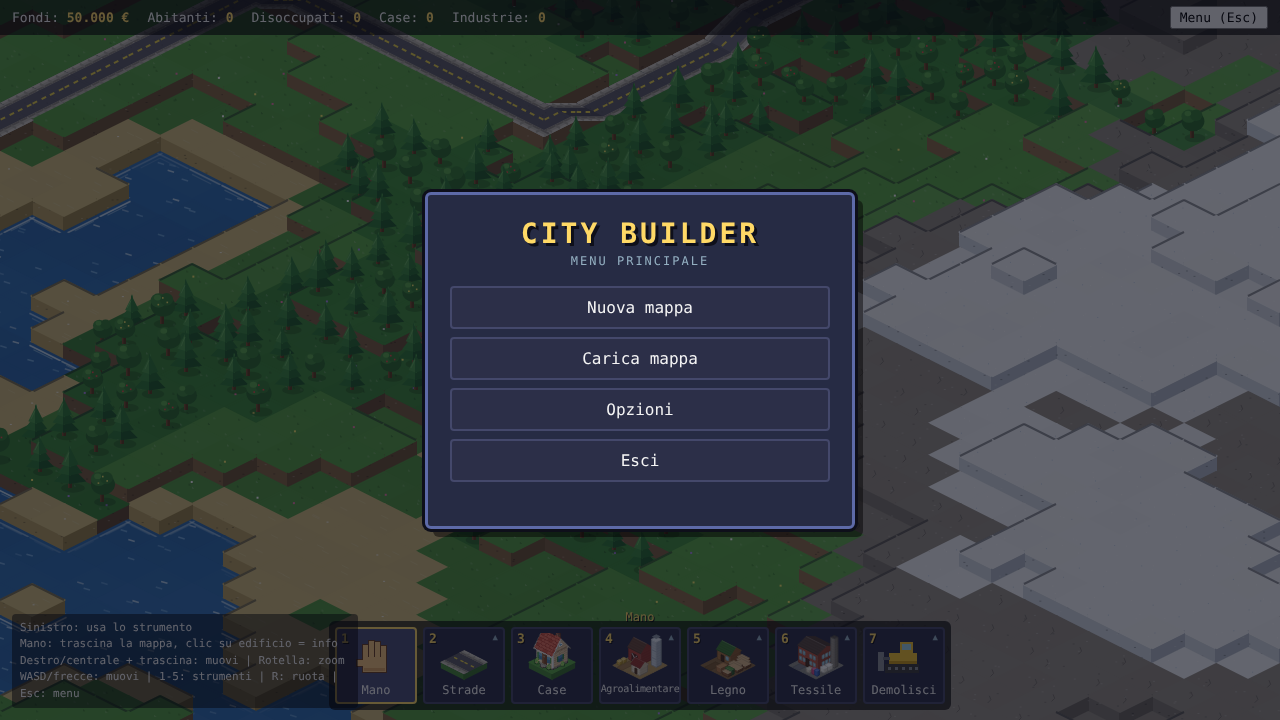
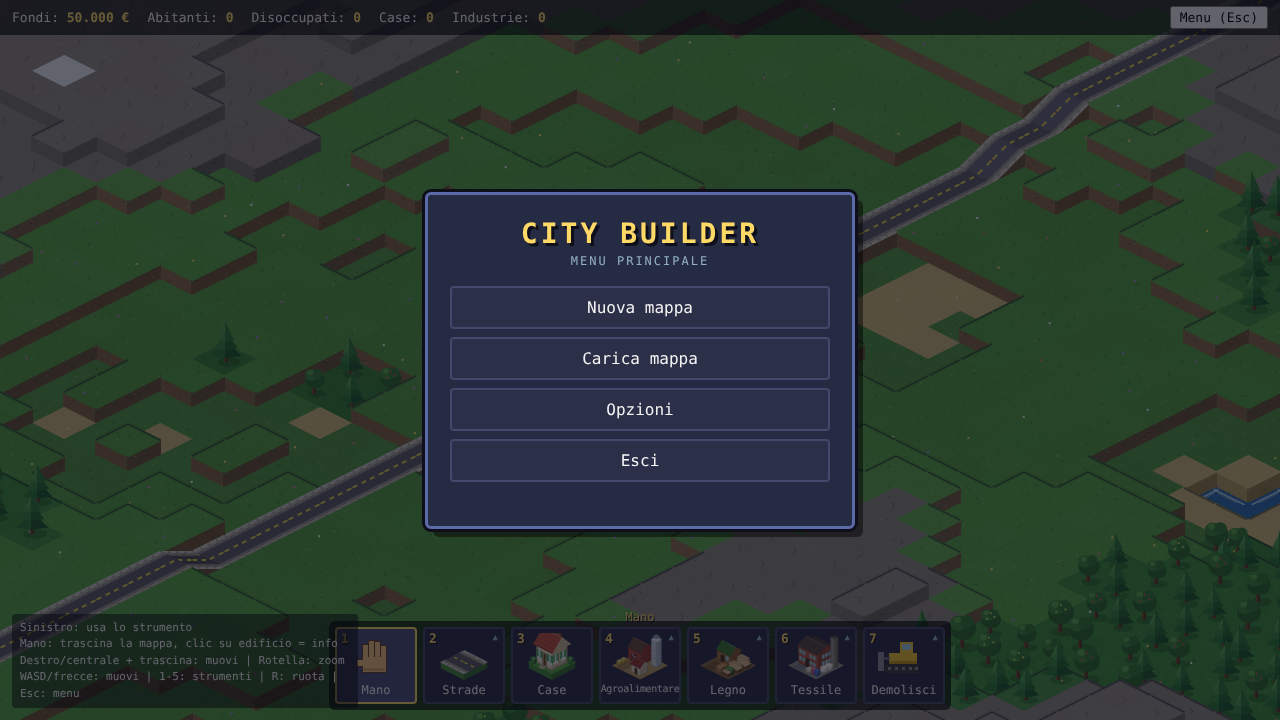
Case e veicoli disegnati nel codice nello stesso stile degli altri edifici
Claude-Session: https://claude.ai/code/session_01EPii4HtPudbMHHXMoA5j75

diff --git a/js/sprite-data.js b/js/sprite-data.js
@@ -1,7 +1,3 @@
 // ---------- Sprite in pixel art (file generato da tools/sprites/build.js: non modificare a mano) ----------
 const SPRITE_DATA = {
-  house: { cell: [64,84], anchor: [32,52], cols: 4, rows: 3,
[1 lines of base64/hex data omitted]
-  vehicles: { cell: [40,32], anchor: [20,22], cols: 4, rows: 3,
[1 lines of base64/hex data omitted]
 };

diff --git a/js/render.js b/js/render.js
@@ -19,10 +19,11 @@ const GROUND = { farm: '#b89a5e', warehouse: '#9a9a92', factory: '#8f8f88', supe
   forestry: '#8a6a40', sawmill: '#a08a64', furnitureFactory: '#8f8f88', furnitureStore: '#9a9a92',
   goodsWarehouse: '#9a9a92', textileMill: '#8f8f88', clothingFactory: '#8f8f88', clothingStore: '#9a9a92' };   // terreno sotto gli edifici grandi
 
+// colori delle case: muri (l = lato sinistro, r = destro), tetto, falda dietro, persiane
 const HOUSE_STYLES = [
-  { l: '#d9c3a0', r: '#b39d7c', roof: '#b5473a', lip: '#8f372d' },
-  { l: '#e6d9c2', r: '#c0b399', roof: '#4a6fa5', lip: '#385782' },
-  { l: '#c9d6b8', r: '#a4b394', roof: '#8a5a3a', lip: '#6b432a' },
+  { l: '#efe0c2', r: '#cdbb9a', roof: '#c4533f', back: '#8f372d', shutter: '#4f9f57' },
+  { l: '#f4f4f0', r: '#d2d4d6', roof: '#4f74b0', back: '#385782', shutter: '#5f718c' },
+  { l: '#d6e3c4', r: '#b2c2a0', roof: '#9a6540', back: '#6b432a', shutter: '#bd8640' },
 ];
 
 function poly(c, pts, color) {
@@ -411,33 +412,60 @@ function drawRoundabout(c, x, y, P) {
 // ---------- Edifici ----------
 // La casa è uno sprite in pixel art (assets/sprites/house.png: colonne = rotazioni, righe = colori).
 // Finché l'immagine non è caricata si usa il disegno semplice qui sotto.
-function drawHouse(c, sx, sy, variant, rot) {
-  if (drawSprite(c, 'house', (rot || 0) & 3, variant || 0, sx, sy)) return;
-  const s = HOUSE_STYLES[variant % HOUSE_STYLES.length];
-  const hw = 12, hh = 6, h = 14;
-  const cx = sx, cy = sy + TH / 2;
-  const L = [cx - hw, cy], B = [cx, cy + hh], R = [cx + hw, cy], Tp = [cx, cy - hh];
-  const up = (p, d) => [p[0], p[1] - d];
-
-  poly(c, [L, B, up(B, h), up(L, h)], s.l);
-  poly(c, [B, R, up(R, h), up(B, h)], s.r);
-  poly(c, [up(Tp, h), up(R, h), up(B, h), up(L, h)], s.roof);
-  poly(c, [up(L, h), up(B, h), up(B, h - 2), up(L, h - 2)], s.lip);
-  poly(c, [up(B, h), up(R, h), up(R, h - 2), up(B, h - 2)], s.lip);
-
-  c.fillStyle = '#2b3a4d';
-  for (const t of [0.3, 0.7]) {
-    c.fillRect(Math.round(L[0] + (B[0] - L[0]) * t) - 1, Math.round(L[1] + (B[1] - L[1]) * t - h * 0.5) - 1, 2, 3);
-    c.fillRect(Math.round(B[0] + (R[0] - B[0]) * t) - 1, Math.round(B[1] + (R[1] - B[1]) * t - h * 0.5) - 1, 2, 3);
-  }
-  // porta: sul lato sinistro (rot 0) o destro (rot 3); con rot 1 e 2 è sul retro e non si vede
+// Casa 1x1, disegnata come gli altri edifici: muri, tetto a due falde con il comignolo,
+// porta (sul lato che dice la rotazione: 0 = +v, 1 = -u, 2 = -v, 3 = +u), finestre con persiane,
+// vialetto e cespugli. Due tipi (villetta e casa a due piani) e tre colori.
+function drawHouse(c, x, y, base, variant, rot) {
+  const s = HOUSE_STYLES[(variant || 0) % HOUSE_STYLES.length];
   const r = (rot || 0) & 3;
-  if (r === 0 || r === 3) {
-    const [a, b] = r === 0 ? [L, B] : [B, R];
-    const m = [(a[0] + b[0]) / 2, (a[1] + b[1]) / 2];
-    poly(c, [[m[0] - 1.5, m[1] - 0.75 * (r === 0 ? 1 : -1)], [m[0] + 1.5, m[1] + 0.75 * (r === 0 ? 1 : -1)],
-      [m[0] + 1.5, m[1] + 0.75 * (r === 0 ? 1 : -1) - 6], [m[0] - 1.5, m[1] - 0.75 * (r === 0 ? 1 : -1) - 6]], '#5a3a22');
+  const tall = hash(x, y, 42) > 0.6;                      // casa a due piani
+  const P = (u, v, z) => iso(x, y, u, v, base + z / STEP);
+  const A = 0.17, B = 0.83, H = tall ? 21 : 13;
+  const doorFace = ['+v', '-u', '-v', '+u'][r];
+  // quadrilatero su un lato del muro: face '+v' (v = B) o '+u' (u = B), da a0 a a1, alto da z0 a z1
+  const onFace = (face, a0, a1, z0, z1, color) => {
+    const pt = (a, z) => face === '+v' ? P(a, B, z) : P(B, a, z);
+    const q = [pt(a0, z0), pt(a1, z0), pt(a1, z1), pt(a0, z1)];
+    poly(c, q, color);
+    return q;
+  };
+  const windowOn = (face, a, z0) => {
+    const q = onFace(face, a - 0.065, a + 0.065, z0, z0 + 5, '#9fd3e8');
+    if (!DETAIL) return;
+    aline(c, [(q[0][0] + q[1][0]) / 2, (q[0][1] + q[1][1]) / 2], [(q[3][0] + q[2][0]) / 2, (q[3][1] + q[2][1]) / 2], '#ffffff', 0.9);
+    aline(c, [(q[0][0] + q[3][0]) / 2, (q[0][1] + q[3][1]) / 2], [(q[1][0] + q[2][0]) / 2, (q[1][1] + q[2][1]) / 2], '#ffffff', 0.9);
+    for (let k = 0; k < 4; k++) aline(c, q[k], q[(k + 1) % 4], '#ffffff', 0.9);       // cornice
+    onFace(face, a - 0.105, a - 0.07, z0, z0 + 5, s.shutter);                         // persiane
+    onFace(face, a + 0.07, a + 0.105, z0, z0 + 5, s.shutter);
+    onFace(face, a - 0.08, a + 0.08, z0 - 0.8, z0, '#f2f0ea');                        // davanzale
+  };
+  // vialetto davanti alla porta e due cespugli
+  const toEdge = { '+v': [0.43, B, 0.57, 1], '+u': [B, 0.43, 1, 0.57], '-v': [0.43, 0, 0.57, A], '-u': [0, 0.43, A, 0.57] }[doorFace];
+  poly(c, [P(toEdge[0], toEdge[1], 0), P(toEdge[2], toEdge[1], 0), P(toEdge[2], toEdge[3], 0), P(toEdge[0], toEdge[3], 0)], '#c9bfa8');
+  const bush = { l: '#4a9a3c', r: '#3a7f30', t: '#5aae48', plain: true };
+  // corpo della casa (senza coperchio: sopra c'è il tetto)
+  const top = box(c, x, y, base, A, A, B, B, H, { l: s.l, r: s.r });
+  const alongV = (r & 1) === 1;                           // il colmo è parallelo al lato della porta
+  const chim = alongV ? [0.3, 0.6, 0.4, 0.7] : [0.6, 0.3, 0.7, 0.4];
+  gableRoof(c, x, y, top, A - 0.07, A - 0.07, B + 0.07, B + 0.07, 8, { back: s.back, roof: s.roof, gable: s.r, gableL: s.l }, alongV,
+    () => box(c, x, y, top, chim[0], chim[1], chim[2], chim[3], 13, { l: '#b5634a', r: '#8f4a36', t: '#3a3034', plain: true }));
+  // porta, finestre (sui due lati che si vedono)
+  for (const face of ['+v', '+u']) {
+    const floors = tall ? [4, 12] : [4];
+    if (face === doorFace) {
+      const q = onFace(face, 0.43, 0.57, 0, 9, '#6b4424');
+      if (DETAIL) {
+        for (let k = 0; k < 4; k++) aline(c, q[k], q[(k + 1) % 4], '#f2f0ea', 0.9);
+        const kn = face === '+v' ? P(0.54, B, 4.5) : P(B, 0.54, 4.5);
+        c.fillStyle = '#f2d14a'; c.fillRect(kn[0], kn[1], 0.6, 0.6);           // maniglia
+      }
+      windowOn(face, 0.27, 4); windowOn(face, 0.73, 4);
+      if (tall) { windowOn(face, 0.3, 12); windowOn(face, 0.7, 12); }
+    } else for (const z of floors) { windowOn(face, 0.33, z); windowOn(face, 0.67, z); }
   }
+  // cespugli agli angoli davanti
+  box(c, x, y, base, 0.04, 0.86, 0.14, 0.96, 3, bush);
+  box(c, x, y, base, 0.86, 0.04, 0.96, 0.14, 3, bush);
 }
 
 // Parallelepipedo da (u0, v0) a (u1, v1) rispetto all'angolo (ax, ay), alla quota base, alto hp pixel
@@ -469,18 +497,21 @@ function box(c, ax, ay, base, u0, v0, u1, v1, hp, col) {
 }
 
 // Tetto a due falde con il colmo lungo u, appoggiato alla quota top, alto rh pixel
-function gableRoof(c, ax, ay, top, u0, v0, u1, v1, rh, col, alongV) {
+// mid = disegno da fare tra la falda dietro e quella davanti (es. il comignolo)
+function gableRoof(c, ax, ay, top, u0, v0, u1, v1, rh, col, alongV, mid) {
   const P = (u, v, h) => iso(ax, ay, u, v, h);
   const ridge = top + rh / STEP;
   if (!alongV) {
     const vm = (v0 + v1) / 2;
     poly(c, [P(u0, v0, top), P(u1, v0, top), P(u1, vm, ridge), P(u0, vm, ridge)], col.back);
+    if (mid) mid();
     poly(c, [P(u1, v1, top), P(u1, v0, top), P(u1, vm, ridge)], col.gable);
     poly(c, [P(u0, v1, top), P(u1, v1, top), P(u1, vm, ridge), P(u0, vm, ridge)], col.roof);
     if (DETAIL) roofLines(c, P(u0, v1, top), P(u1, v1, top), P(u0, vm, ridge), P(u1, vm, ridge));
   } else { // colmo lungo v (edificio ruotato)
     const um = (u0 + u1) / 2;
     poly(c, [P(u0, v0, top), P(u0, v1, top), P(um, v1, ridge), P(um, v0, ridge)], col.back);
+    if (mid) mid();
     poly(c, [P(u0, v1, top), P(u1, v1, top), P(um, v1, ridge)], col.gableL || col.gable);
     poly(c, [P(u1, v0, top), P(u1, v1, top), P(um, v1, ridge), P(um, v0, ridge)], col.roof);
     if (DETAIL) roofLines(c, P(u1, v0, top), P(u1, v1, top), P(um, v0, ridge), P(um, v1, ridge));
@@ -787,7 +818,7 @@ function drawBuildingOn(c, x, y, b) {
   const def = BUILDINGS[b.kind];
   if (b.kind === 'house') {
     const t = game.map[y][x];
-    drawHouse(c, (x - y) * TW / 2, (x + y) * TH / 2 - t.elev * STEP, b.variant, b.rot);
+    drawHouse(c, x, y, t.elev, b.variant, b.rot);
     return;
   }
   if (b.kind === 'bakery') { drawBakery(c, x, y, game.map[y][x].elev, b.rot || 0); return; }

diff --git a/js/vehicles.js b/js/vehicles.js
@@ -400,27 +400,50 @@ function vehicleDir(v) {
   if (Math.abs(dx) >= Math.abs(dy)) return dx >= 0 ? 1 : 3;
   return dy >= 0 ? 2 : 0;
 }
+// Auto e furgoni disegnati come gli edifici (scatole con contorno): carrozzeria, abitacolo con i
+// vetri, ruote, fari davanti e luci rosse dietro (sul lato che si vede), ombra a terra.
+// Il furgone ha il cassone bianco con la striscia del colore dell'attività.
 function drawVehicle(c, v) {
-  const { mx, my, h, alongU } = v.pos;
-  const img = tintedSprite('vehicles', v.kind === 'van' ? (v.stripe || '#3fa34d') : v.color);
-  if (img) {
-    if (v.model == null) v.model = Math.random() < 0.5 ? 0 : 1;   // berlina o utilitaria
-    let [wx, wy] = iso(0, 0, mx, my, h);
-    wx = Math.round(wx * 2) / 2; wy = Math.round(wy * 2) / 2;   // pixel dello sprite allineati allo schermo
-    drawSpriteImage(c, 'vehicles', img, vehicleDir(v), v.kind === 'van' ? 2 : v.model, wx, wy);
-    return;
+  const { mx, my, h } = v.pos;
+  const d = vehicleDir(v), f = DIRS[d], sd = [-f.dy, f.dx];   // avanti e di lato
+  const van = v.kind === 'van';
+  const L = van ? 0.24 : 0.19, W = van ? 0.115 : 0.1;
+  // rettangolo nel sistema del veicolo (a lungo la marcia, w di lato) -> rettangolo della mappa
+  const R = (a0, a1, w0, w1) => {
+    const us = [], vs = [];
+    for (const a of [a0, a1]) for (const w of [w0, w1]) { us.push(mx + f.dx * a + sd[0] * w); vs.push(my + f.dy * a + sd[1] * w); }
+    return [Math.min(...us), Math.min(...vs), Math.max(...us), Math.max(...vs)];
+  };
+  const vbox = (rc, z0, hp, col) => box(c, 0, 0, h + z0 / STEP, rc[0], rc[1], rc[2], rc[3], hp, Object.assign({ plain: true }, col));
+  if (DETAIL) {                                                   // ombra
+    const [sx, sy] = iso(0, 0, mx, my, h);
+    c.fillStyle = 'rgba(0,0,0,0.2)'; c.beginPath(); c.ellipse(sx, sy + 0.5, (van ? 6 : 5), 2.4, 0, 0, Math.PI * 2); c.fill();
   }
-  const L = v.kind === 'van' ? 0.24 : 0.19, W = v.kind === 'van' ? 0.12 : 0.1;
-  const [hu, hv] = alongU ? [L, W] : [W, L];
-  if (v.kind === 'van') {
-    box(c, 0, 0, h, mx - hu, my - hv, mx + hu, my + hv, 7, { l: '#e8e8e8', r: '#c4c4c4', t: '#f6f6f6' });
-    const st = v.stripe || '#3fa34d';
-    box(c, 0, 0, h + 3 / STEP, mx - hu, my - hv, mx + hu, my + hv, 1.5, { l: st, r: shade(st, -0.2), t: null }); // striscia colorata
+  // ruote: prima quelle lontane dallo schermo, poi la carrozzeria, poi le vicine
+  const wheels = [];
+  for (const a of [-L + 0.06, L - 0.06]) for (const w of [-W + 0.01, W - 0.01]) wheels.push(R(a - 0.035, a + 0.035, w - 0.02, w + 0.02));
+  const wheelCol = { l: '#2a2a30', r: '#1e1e22', t: '#3a3a40' };
+  const far = rc => rc[0] + rc[1] < mx + my;
+  wheels.filter(far).forEach(rc => vbox(rc, 0, 2.4, wheelCol));
+  const body = v.color || '#d94141', stripe = v.stripe || '#3fa34d';
+  let cabin;
+  if (van) {
+    vbox(R(-L, L * 0.3, -W, W), 1, 8.5, { l: '#f2f2f2', r: '#cfd1d4', t: '#ffffff' });                // cassone
+    vbox(R(-L - 0.002, L * 0.3 + 0.002, -W - 0.002, W + 0.002), 4.5, 1.6, { l: stripe, r: shade(stripe, -0.2) });   // striscia
+    vbox(R(L * 0.3, L, -W, W), 1, 4, { l: stripe, r: shade(stripe, -0.25), t: shade(stripe, 0.1) });   // muso
+    cabin = { rc: R(L * 0.3, L * 0.8, -W * 0.92, W * 0.92), z: 5, hp: 3, top: shade(stripe, 0.15) };
   } else {
-    const col = v.color;
-    box(c, 0, 0, h, mx - hu, my - hv, mx + hu, my + hv, 4, { l: col, r: shade(col, -0.25), t: shade(col, 0.15) });
-    const [cu, cv] = alongU ? [hu * 0.55, hv * 0.85] : [hu * 0.85, hv * 0.55];
-    box(c, 0, 0, h + 4 / STEP, mx - cu, my - cv, mx + cu, my + cv, 3, { l: '#9fd3e8', r: '#7fb3c8', t: shade(col, 0.1) });
+    vbox(R(-L, L, -W, W), 1, 3.6, { l: body, r: shade(body, -0.25), t: shade(body, 0.12) });             // carrozzeria
+    cabin = { rc: R(-L * 0.55, L * 0.35, -W * 0.86, W * 0.86), z: 4.6, hp: 3, top: shade(body, 0.2) };
+  }
+  vbox(cabin.rc, cabin.z, cabin.hp, { l: '#8fc8e2', r: '#6fa6c2', t: cabin.top });                   // abitacolo con i vetri
+  wheels.filter(rc => !far(rc)).forEach(rc => vbox(rc, 0, 2.4, wheelCol));
+  if (!DETAIL) return;
+  // fari: sul muso se guarda verso lo schermo (+u o +v), altrimenti luci rosse sul retro
+  const front = d === 1 || d === 2, a = front ? L : -L, col = front ? '#fff3b0' : '#e83a3a';
+  for (const w of [-W * 0.62, W * 0.62]) {
+    const p = iso(0, 0, mx + f.dx * a + sd[0] * w, my + f.dy * a + sd[1] * w, h + 2.6 / STEP);
+    c.fillStyle = col; c.fillRect(p[0] - 0.5, p[1] - 0.5, 1, 0.8);
   }
 }
 

diff --git a/js/ui.js b/js/ui.js
@@ -286,7 +286,7 @@ function buildIcons() {
   ICONS.dirt = tileIcon((c, P) => { diamond(c, P, DIRT_COLORS[0]); drawDirt(c, P, straight, 3, 7, true); });
   ICONS.rail = tileIcon((c, P) => { diamond(c, P, COLORS[T.GRASS][0]); drawRail(c, P, straight); });
   ICONS.field = tileIcon((c, P) => { diamond(c, P, SOIL); drawField(c, P, 'wheat', 3); });
-  ICONS.house = tileIcon((c, P) => { diamond(c, P, COLORS[T.GRASS][0]); drawHouse(c, 0, 0, 0); });
+  ICONS.house = tileIcon((c, P) => { diamond(c, P, COLORS[T.GRASS][0]); drawHouse(c, 0, 0, 0, 0, 0); });
   ICONS.farm = bigIcon(c => drawFarm(c, 0, 0, 0, 0), GROUND.farm);
   ICONS.warehouse = bigIcon(c => drawWarehouse(c, 0, 0, 0, 0), GROUND.warehouse);
   ICONS.factory = bigIcon(c => drawFactory(c, 0, 0, 0, 0), GROUND.factory);
@@ -364,7 +364,7 @@ function groupOf(tool, prefer) {
 // Quando uno sprite finisce di caricarsi, rifà l'icona che lo usa
 function onSpritesLoaded(name) {
   if (name !== 'house' || !ICONS.house) return;
-  ICONS.house = tileIcon((c, P) => { poly(c, [P(0, 0), P(1, 0), P(1, 1), P(0, 1)], COLORS[T.GRASS][0]); drawHouse(c, 0, 0, 0); });
+  ICONS.house = tileIcon((c, P) => { poly(c, [P(0, 0), P(1, 0), P(1, 1), P(0, 1)], COLORS[T.GRASS][0]); drawHouse(c, 0, 0, 0, 0, 0); });
   const img = document.querySelector('#group-homes img');
   if (img) img.src = ICONS.house;
 }

diff --git a/tools/sprites/build.js b/tools/sprites/build.js
@@ -10,11 +10,11 @@ const path = require('path');
 const root = path.join(__dirname, '..', '..');
 // cell = grandezza di una cella del foglio; anchor = punto della cella dove sta l'angolo in alto del tile
 // cols = rotazioni (0..3), rows = varianti di colore
-const SHEETS = {
-  house: { file: 'house.png', cell: [64, 84], anchor: [32, 52], cols: 4, rows: 3 },
-  // veicoli: colonne = direzione di marcia (0..3), righe = berlina, utilitaria, furgone; anchor = centro a terra
-  vehicles: { file: 'vehicles.png', cell: [40, 32], anchor: [20, 22], cols: 4, rows: 3 },
-};
+// Casa e veicoli adesso sono disegnati nel codice come gli altri edifici (scelta dell'utente):
+// i loro fogli (house.png, vehicles.png) restano in assets/sprites ma non vengono incorporati.
+// Per rimetterli: house: { file: 'house.png', cell: [64, 84], anchor: [32, 52], cols: 4, rows: 3 },
+//                 vehicles: { file: 'vehicles.png', cell: [40, 32], anchor: [20, 22], cols: 4, rows: 3 },
+const SHEETS = {};
 
 let out = '// ---------- Sprite in pixel art (file generato da tools/sprites/build.js: non modificare a mano) ----------\n';
 out += 'const SPRITE_DATA = {\n';

diff --git a/CLAUDE.md b/CLAUDE.md
@@ -63,16 +63,13 @@ Gioco city builder isometrico in stile retro, in JavaScript + Canvas 2D, impacch
 - `buildingStatus(b)`: icone noRoad/noWorkers/fewWorkers/full/noInput/empty (`drawWorkerIcons`). Casa: noRoad se non ha strada accanto o se `b.unreachable` (`checkHouseLinks` in vehicles.js: BFS dalle entrate della mappa ogni ~3 s).
 - Icone delle merci: `GOOD_ICONS` (`drawGoodIcon` in ui.js), usate nei pannelli.
 
-## Sprite in pixel art (tile 64x32)
-- Gli sprite sono disegnati per tile da 64x32: 2 pixel dello sprite per unità del mondo (che resta a 32x16, `SPRITE_SCALE`). Allo zoom normale (x2) e a x4 i pixel sono netti; rimpiccioliti si sfumano.
-- `assets/sprites/*.png` = fogli (colonne = rotazioni 0..3, righe = varianti). `node tools/sprites/build.js` li incorpora come data URI in `js/sprite-data.js` (generato: non modificare a mano), così niente problemi con file:// e `toDataURL` delle icone.
-- `js/sprites.js`: `drawSprite(c, name, col, row, wx, wy)` con (wx, wy) = angolo in alto del tile; restituisce false finché l'immagine non è caricata (si usa il disegno di riserva). `onSpritesLoaded` (ui.js) rifà le icone.
-- Veicoli: `tools/sprites/vehicles.py` (stesso metodo della casa) crea `vehicles.png`: colonne = direzione di marcia (DIRS 0..3), righe = berlina, utilitaria, furgone; ancora = centro del veicolo a terra. Carrozzeria (e striscia del furgone) in colore maschera (r 255, g 0, b = tono*40): `tintedSprite(name, colore)` la ricolora al volo (copie in memoria), `drawSpriteImage` la disegna; `vehicleDir(v)` dal segmento in corso; `v.model` 0/1 a caso per le auto.
+## Grafica (tutto disegnato nel codice)
+- Case e veicoli sono disegnati nel codice con `box` / `gableRoof` come magazzino e altri edifici (scelta dell'utente: stesso stile per tutto, niente sprite separati). `drawHouse(c, x, y, base, variant, rot)`: colori da `HOUSE_STYLES` (`l, r, roof, back, shutter`), un piano o due (`hash(x,y,42) > 0.6`), porta sul lato della rotazione, finestre con persiane solo sulle facce visibili, comignolo disegnato con il callback `mid` di `gableRoof(..., alongV, mid)` (tra la falda dietro e quella davanti), vialetto e cespugli. `drawVehicle` (vehicles.js): ombra, ruote dietro prima e davanti dopo la scocca, auto = scocca + abitacolo di vetro, furgone = cassone bianco con striscia; fari davanti / luci rosse dietro secondo `vehicleDir(v)`.
+- Il sistema degli sprite resta ma è vuoto: `tools/sprites/build.js` ha `SHEETS = {}` (dentro c'è scritto come rimettere house.png e vehicles.png), `js/sprite-data.js` è generato vuoto, `js/sprites.js` (`drawSprite`, `tintedSprite`) non è usato. `tools/sprites/house.py` e `vehicles.py` restano come prova di pixel art.
 - Strade (disegnate nel codice, non sprite, così vanno su rampe e ponti): grana dell'asfalto, marciapiedi lastricati con cordolo sui lati liberi, angoli di marciapiede tra due bracci collegati, mezzeria gialla tratteggiata (niente agli incroci, strisce di stop all'ingresso), tombini; autostrada con linee di bordo; terra con sassolini e ciuffi d'erba. Da lontano (`detail` falso, zoom < 1) la versione semplice per non rallentare.
 - Grafica generale (render.js): `DETAIL` (zoom >= 1) e `FINE` (zoom >= 2) decidono quanto dettaglio disegnare (da lontano semplice per la velocità; icone sempre dettagliate). `box` ha righe di mattoni/doghe, spigolo chiaro, ombra alla base e contorno; `gableRoof` file di tegole e colmo (`roofLines`); `drawDoor` cornici e vetrate con divisori e riflesso; `drawWall` scarpate di terra sotto l'erba (`wallColor`) con bordo d'erba, strati e sassi; `terrainDetail` ciuffi e fiori, sabbia, crepe nella roccia, neve, onde; schiuma sulle rive; alberi pini/latifoglie con ombra (`drawTree`); binari con ghiaia. `aline` = linea sottile con trasparenza, `shadeC` = shade con memoria (usarlo nei disegni ripetuti). Niente tombini sulle strade: l'utente li vedeva come punti neri.
 - Ordine dei pezzi negli edifici (`drawParts` -> `sortParts`/`partBefore`): un pezzo va prima di un altro se gli sta tutto dietro (u o v più piccoli); solo i pezzi che si sovrappongono a terra (camini, insegne dentro l'edificio) usano ancora la somma dell'angolo. Prima le casse davanti al magazzino finivano coperte dal capannone. Le decorazioni in `after` devono seguire la rotazione (`rotUV`/`rotVec`) e comparire solo sui lati visibili. Controllo visivo: tutti gli edifici nelle 4 rotazioni (script di prova con `useTool` a rotazione 0..3).
 - Acqua animata: `animT` (secondi), tono che cambia a onde, increspature che scorrono e brillano (`waterDetail`), schiuma sulle rive che pulsa. `waterSeen` = nel fotogramma c'era acqua: allora `app.js` ridisegna ~8 volte al secondo (solo con zoom >= 1).
-- Casa: `tools/sprites/house.py` (Python + Pillow) crea `house.png` da un piccolo modello 3D "fotografato" pixel per pixel con scale di toni (muri a doghe, tetto a tegole, comignolo, finestre con persiane, porta, gradino, vialetto, cespugli). L'utente vuole pixel art più dettagliata; la casa è la prima prova, poi un edificio alla volta.
 
 ## Strade speciali e ponti
 - `PATHS[p].speed`: autostrada 2.2, terra 0.7, resto 1; `routePoints` mette in ogni punto [mx, my, quota, velocità, livello] e `moveVehicle` usa la velocità del tratto.
